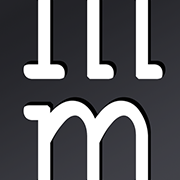
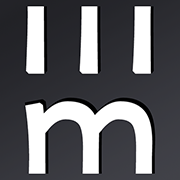
v0.9.7.2: Fix aperture setting persistence race condition and cookie path collision across devices

diff --git a/src/stores/settingsPersistence.ts b/src/stores/settingsPersistence.ts
@@ -68,7 +68,9 @@ export function readSynchronousSettings(): (Partial<ManuscriptManifest> & { _upd
       if (Object.keys(settings).length > 0) {
         candidates.push({
           settings,
-          updatedAt: typeof parsed._updatedAt === 'number' ? parsed._updatedAt : 0,
+          updatedAt: typeof parsed._updatedAt === 'number'
+            ? parsed._updatedAt
+            : (typeof parsed.updatedAt === 'number' ? parsed.updatedAt : 0),
           priority,
         });
       }
@@ -85,12 +87,16 @@ export function readSynchronousSettings(): (Partial<ManuscriptManifest> & { _upd
     tryParse(sessionStorage.getItem(SETTINGS_KEY), 2);
   } catch (e) {}
 
-  // Tier 3: document.cookie
+  // Tier 3: document.cookie (parse all matching cookies and collect all candidates)
   try {
-    if (typeof document !== 'undefined') {
-      const match = document.cookie.match(new RegExp(`(?:^|; )${SETTINGS_KEY}=([^;]*)`));
-      if (match) {
-        tryParse(decodeURIComponent(match[1]), 3);
+    if (typeof document !== 'undefined' && document.cookie) {
+      const cookies = document.cookie.split(';');
+      for (const c of cookies) {
+        const trimmed = c.trim();
+        if (trimmed.startsWith(`${SETTINGS_KEY}=`)) {
+          const rawVal = trimmed.slice(SETTINGS_KEY.length + 1);
+          tryParse(decodeURIComponent(rawVal), 3);
+        }
       }
     }
   } catch (e) {}
@@ -177,7 +183,7 @@ export function persistSettings(manifest: Partial<ManuscriptManifest>): void {
       window.name = `minitype_settings:${serialized}`;
     } catch (e) {}
 
-    // 4. Synchronous Cookies
+    // 4. Synchronous Cookies: Write strictly to root and clear any legacy subpath shadow cookies
     try {
       if (typeof document !== 'undefined') {
         const isSecure = window.location.protocol === 'https:';
@@ -187,11 +193,15 @@ export function persistSettings(manifest: Partial<ManuscriptManifest>): void {
         // Write to root
         document.cookie = `${SETTINGS_KEY}=${cookieVal}; path=/; max-age=31536000; SameSite=Lax${secureFlag}`;
 
-        // Write to current subfolder path (e.g. /minitype/ on GitHub Pages)
+        // Actively clear any legacy subfolder path cookies (e.g. /minitype or /minitype/)
         const currentPath = window.location.pathname.replace(/\/[^/]*$/, '') || '';
+        const pathsToClear = new Set<string>(['/minitype', '/minitype/']);
         if (currentPath && currentPath !== '/') {
-          document.cookie = `${SETTINGS_KEY}=${cookieVal}; path=${currentPath}; max-age=31536000; SameSite=Lax${secureFlag}`;
-          document.cookie = `${SETTINGS_KEY}=${cookieVal}; path=${currentPath}/; max-age=31536000; SameSite=Lax${secureFlag}`;
+          pathsToClear.add(currentPath);
+          pathsToClear.add(`${currentPath}/`);
+        }
+        for (const p of pathsToClear) {
+          document.cookie = `${SETTINGS_KEY}=; path=${p}; max-age=0; expires=Thu, 01 Jan 1970 00:00:00 GMT; SameSite=Lax${secureFlag}`;
         }
       }
     } catch (e) {}

diff --git a/tests/unit/engine.test.ts b/tests/unit/engine.test.ts
@@ -3009,6 +3009,50 @@ describe('Typing Engine & State Machine Invariants', () => {
       expect(sessionsInDb).toHaveLength(1);
       expect(sessionsInDb[0].sessionNumber).toBe(1);
     });
+
+    it('correctly resolves the latest timestamp when multiple duplicate cookies exist across subpaths', () => {
+      // Stale cookie with older timestamp (e.g. from /minitype/)
+      const stalePayload = encodeURIComponent(JSON.stringify({ activeApertureHeight: 2, _updatedAt: 1000 }));
+      // Fresh cookie with newer timestamp (e.g. from /)
+      const freshPayload = encodeURIComponent(JSON.stringify({ activeApertureHeight: 7, _updatedAt: 5000 }));
+
+      // Simulate document.cookie having multiple entries for minitype_global_settings
+      // In browser cookie string, multiple cookies with the same name are semicolon-separated
+      Object.defineProperty(document, 'cookie', {
+        writable: true,
+        value: `minitype_global_settings=${stalePayload}; minitype_global_settings=${freshPayload}`,
+      });
+
+      const sync = readSynchronousSettings();
+      expect(sync).not.toBeNull();
+      expect(sync?.activeApertureHeight).toBe(7);
+      expect(sync?._updatedAt).toBe(5000);
+    });
+
+    it('handles rapid sequential aperture height updates and persists final value to IndexedDB', async () => {
+      const store = useTypingStore.getState();
+      await store.newProject();
+
+      // Simulate rapid slider ticks 1 -> 3 -> 5 -> 8
+      store.setApertureHeight(1);
+      store.setApertureHeight(3);
+      store.setApertureHeight(5);
+      store.setApertureHeight(8);
+
+      // Verify store immediately reflects the final value
+      expect(useTypingStore.getState().manifest.activeApertureHeight).toBe(8);
+
+      // Wait a short tick for the serialized DB write queue to finish
+      await new Promise((resolve) => setTimeout(resolve, 50));
+
+      const dbSettings = await db.settings.get('global');
+      expect(dbSettings).toBeDefined();
+      expect(dbSettings?.settings.activeApertureHeight).toBe(8);
+
+      // Verify rehydrate preserves 8
+      await useTypingStore.getState().rehydrate();
+      expect(useTypingStore.getState().manifest.activeApertureHeight).toBe(8);
+    });
   });
 });
 

diff --git a/src/stores/slices/persistenceSlice.ts b/src/stores/slices/persistenceSlice.ts
@@ -275,21 +275,23 @@ export const createPersistenceSlice: StateCreator<
           const syncUpdatedAt = (syncSettings as any)?._updatedAt || 0;
           const dbUpdatedAt = (dbRecord as any)?._updatedAt || 0;
 
-          // If DB has settings, and either sync was missing or DB is newer/equal
-          if (!syncSettings || dbUpdatedAt >= syncUpdatedAt) {
+          // If DB has settings, and either sync was missing or DB is strictly newer
+          if (!syncSettings || dbUpdatedAt > syncUpdatedAt) {
             currentManifest = { ...currentManifest, ...explicitDb };
             // Reseed all synchronous stores with database settings
             persistSettings(currentManifest);
           } else {
-            // Sync settings are newer -> preserve any settings that were missing from syncSettings
+            // Sync settings are newer or equal -> preserve any settings that were missing from syncSettings
             const missingKeys: any = {};
             for (const key of SETTING_KEYS) {
               if ((explicitSync as any)[key] === undefined && (explicitDb as any)[key] !== undefined) {
                 missingKeys[key] = (explicitDb as any)[key];
               }
             }
-            currentManifest = { ...currentManifest, ...missingKeys };
-            persistSettings(currentManifest);
+            if (Object.keys(missingKeys).length > 0) {
+              currentManifest = { ...currentManifest, ...missingKeys };
+              persistSettings(currentManifest);
+            }
           }
         } else if (syncSettings) {
           // No DB record yet -> save current sync settings to IndexedDB

diff --git a/src/app/layout.tsx b/src/app/layout.tsx
@@ -50,7 +50,6 @@ export default function RootLayout({ children }: LayoutProps<"/">) {
       lang="en"
       suppressHydrationWarning
       data-theme="typewriter"
-      data-aperture-height="1"
       data-page-mode="scroll"
       className={`${interTight.variable} ${courierPrime.variable} h-full antialiased font-sans`}
     >
@@ -72,8 +71,15 @@ export default function RootLayout({ children }: LayoutProps<"/">) {
                 try { check(localStorage.getItem('minitype_global_settings')); } catch (e) {}
                 try { check(sessionStorage.getItem('minitype_global_settings')); } catch (e) {}
                 try {
-                  var match = document.cookie.match(/(?:^|; )minitype_global_settings=([^;]*)/);
-                  if (match) check(decodeURIComponent(match[1]));
+                  if (document.cookie) {
+                    var cks = document.cookie.split(';');
+                    for (var cIdx = 0; cIdx < cks.length; cIdx++) {
+                      var cTrimmed = cks[cIdx].trim();
+                      if (cTrimmed.indexOf('minitype_global_settings=') === 0) {
+                        check(decodeURIComponent(cTrimmed.slice(25)));
+                      }
+                    }
+                  }
                 } catch (e) {}
                 try {
                   if (window.name && window.name.indexOf('minitype_settings:') === 0) {

diff --git a/src/db/index.ts b/src/db/index.ts
@@ -183,17 +183,24 @@ export async function getPagesForManuscript(manuscriptId: string): Promise<PageR
     .sortBy('pageNumber');
 }
 
+let settingsSaveQueue: Promise<void> = Promise.resolve();
+
 export async function saveGlobalSettingsToDb(settings: Partial<ManuscriptManifest>): Promise<void> {
-  try {
-    const existing = await db.settings.get('global');
-    const merged = { ...(existing?.settings || {}), ...settings };
-    if (!(merged as any)._updatedAt) {
-      (merged as any)._updatedAt = Date.now();
+  settingsSaveQueue = settingsSaveQueue.then(async () => {
+    try {
+      await db.transaction('rw', db.settings, async () => {
+        const existing = await db.settings.get('global');
+        const merged = { ...(existing?.settings || {}), ...settings };
+        if (!(merged as any)._updatedAt) {
+          (merged as any)._updatedAt = Date.now();
+        }
+        await db.settings.put({ id: 'global', settings: merged });
+      });
+    } catch (err) {
+      console.error('Failed to save settings to IndexedDB:', err);
     }
-    await db.settings.put({ id: 'global', settings: merged });
-  } catch (err) {
-    console.error('Failed to save settings to IndexedDB:', err);
-  }
+  });
+  return settingsSaveQueue;
 }
 
 export async function getGlobalSettingsFromDb(): Promise<Partial<ManuscriptManifest> | null> {

diff --git a/src/components/modals/SettingsDrawer.tsx b/src/components/modals/SettingsDrawer.tsx
@@ -106,11 +106,6 @@ export const SettingsDrawer: React.FC<SettingsDrawerProps> = ({
                   const val = Number(e.target.value) as ApertureHeight;
                   onUpdateHeight(val);
                 }}
-                onInput={(e) => {
-                  if (manifest.pageMode === 'notecard') return;
-                  const val = Number(e.currentTarget.value) as ApertureHeight;
-                  onUpdateHeight(val);
-                }}
                 className={`w-full square-slider ${
                   manifest.pageMode === 'notecard' ? 'opacity-40 cursor-not-allowed' : 'cursor-pointer'
                 }`}
@@ -364,7 +359,7 @@ export const SettingsDrawer: React.FC<SettingsDrawerProps> = ({
           {/* Version Footer */}
           <div className="pt-3 pb-1 text-center border-t border-border/40">
             <span className="text-[10px] font-mono tracking-widest text-muted-foreground/60 uppercase select-none">
-              Minitype v0.9.7.1
+              Minitype v0.9.7.2
             </span>
           </div>
         </div>

diff --git a/src/app/page.tsx b/src/app/page.tsx
@@ -27,7 +27,9 @@ export default function Home() {
   const setManifest = useTypingStore((s) => s.setManifest);
   const clearText = useTypingStore((s) => s.clearText);
 
-  // Sync active palette data-theme and data-text-size attribute with document root
+  const activeApertureHeight = useTypingStore((s) => s.manifest.activeApertureHeight);
+
+  // Sync active palette data-theme, data-text-size, and data-aperture-height attribute with document root
   useEffect(() => {
     if (typeof document !== 'undefined') {
       if (colorScheme) {
@@ -36,8 +38,11 @@ export default function Home() {
       if (textSize) {
         document.documentElement.setAttribute('data-text-size', textSize);
       }
+      if (activeApertureHeight) {
+        document.documentElement.setAttribute('data-aperture-height', String(activeApertureHeight));
+      }
     }
-  }, [colorScheme, textSize]);
+  }, [colorScheme, textSize, activeApertureHeight]);
 
 
   const handlePrintedComplete = React.useCallback(
